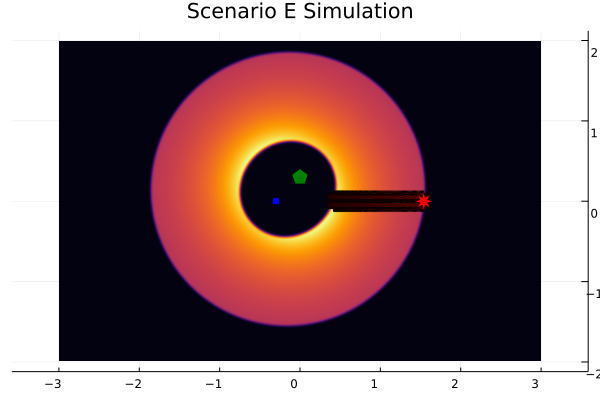
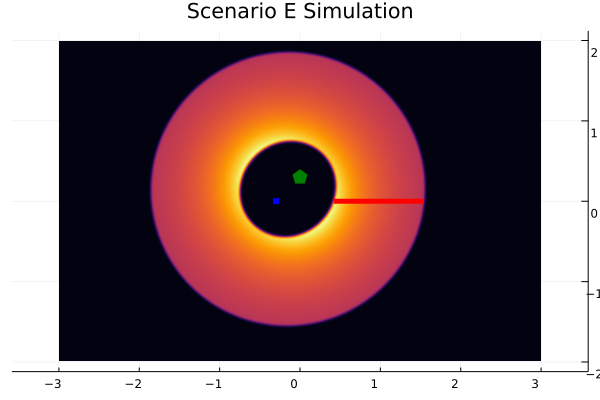
update scenario E plot

Changed region(s): [[0.54, 0.45, 0.72, 0.54]]

diff --git a/docs/src/omniDirectionalLTI/omnidirLTIsource.md b/docs/src/omniDirectionalLTI/omnidirLTIsource.md
@@ -348,11 +348,7 @@ display(p1)
 Given the scenario E assumptions i.e. the position of the source,$𝐩ₛ$ and the receivers at $𝐩ᵣ$ by providing the transmitted signal, $p(t)$ as an ideal impulse and a continuous reflector we obtained the received signal, $z(t)$.
 Now we can estimate the reflector function as follows.
 
-$f(\bm{\xi}) = \dfrac{z\left(\frac{\|\bm{p}_\mathrm{r}-   
-\alpha_0\int_{0}^{L}(\bm{\xi}+k\bm{u})dk\|+
-\|\alpha_0\int_{0}^{L}(\bm{\xi}+k\bm{u})dk- \bm{p}_\mathrm{s}\|}{\mathrm{c}}\right)}
-{\mathrm{A}(\frac{\|\alpha_0\int_{0}^{L}(\bm{\xi}+k\bm{u}) dk-\bm{p}_\mathrm{s}\|}{\mathrm{c}})
-\mathrm{A}(\frac{\|\bm{p}_\mathrm{r}-\alpha_0\int_{0}^{L}(\bm{\xi}+k\bm{u}) dk\|}{\mathrm{c}})}$
+$f(\bm{\xi}) = $
 
 ```julia
 using ISA, LTVsystems
@@ -376,6 +372,9 @@ end
 z = LTIreceiversO(W,𝐩ᵣ)
 a₁(ξ::Vector{Float64}) = A(distBetween(ξ,𝐩ₛ)./lightSpeed).*A(distBetween(𝐩ᵣ,ξ)./lightSpeed)
 f(ξ::Vector{Float64})=(z((distBetween(ξ,𝐩ₛ) .+ distBetween(𝐩ᵣ,ξ))./lightSpeed))./(a₁(ξ::Vector{Float64}))
+T_val1 = map(x->x[1],value)
+T_val2 = map(x->x[2],value)
+line = Any[collect(zip(T_val1,T_val2))]
 Δpos = 0.01
 x_range = collect(-3:Δpos:3)
 y_range = collect(-2:Δpos:2)
@@ -383,14 +382,11 @@ xyGrid = [[x, y] for x in x_range, y in y_range]
 val = [f(𝐮) for 𝐮 ∈ xyGrid]
 p2=plot(x_range,y_range,transpose(val),st=:surface,camera=(0,90),
        aspect_ratio=:equal,legend=false,zticks=false,title="Scenario E Simulation")
+plot!(p2,line[1],color = :red, lw=5)       
 scatter!(p2,[𝐩ₛ[1]], [𝐩ₛ[2]],markersize = 8.5,color = :green,
          marker=:pentagon, label='s' )
 scatter!(p2,[𝐩ᵣ[1]], [𝐩ᵣ[2]],markersize = 8.5,color = :blue,
          marker=:square, label='r' )
-for i in 1:length(value)
-scatter!(p2,[value[i][1]],[value[i][2]],markersize = 8.5,color = :red,
-         marker=:star8, label='t')
-end
 display(p2)
 ```
 
